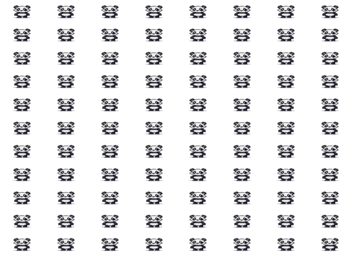
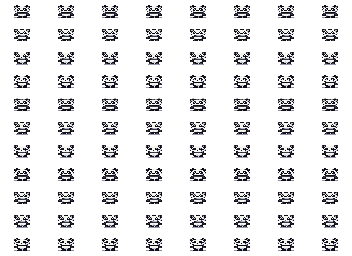
try 2.0

diff --git a/assets/js/adventureGame/GameLevelJungle.js b/assets/js/adventureGame/GameLevelJungle.js
@@ -56,7 +56,7 @@ class GameLevelJungle {
         pixels: {height: 256, width: 352},
         INIT_POSITION: { x: (width / 2), y: (height / 2)},
         orientation: {rows: 8, columns: 11 },
-        down: {row: 5, start: 0, columns: 5 },  // This is the stationary npc, down is default 
+        down: {row: 1, start: 0, columns: 1 },  // This is the stationary npc, down is default 
         hitbox: { widthPercentage: 0.1, heightPercentage: 0.2 },
         // Linux command quiz
         quiz: {
